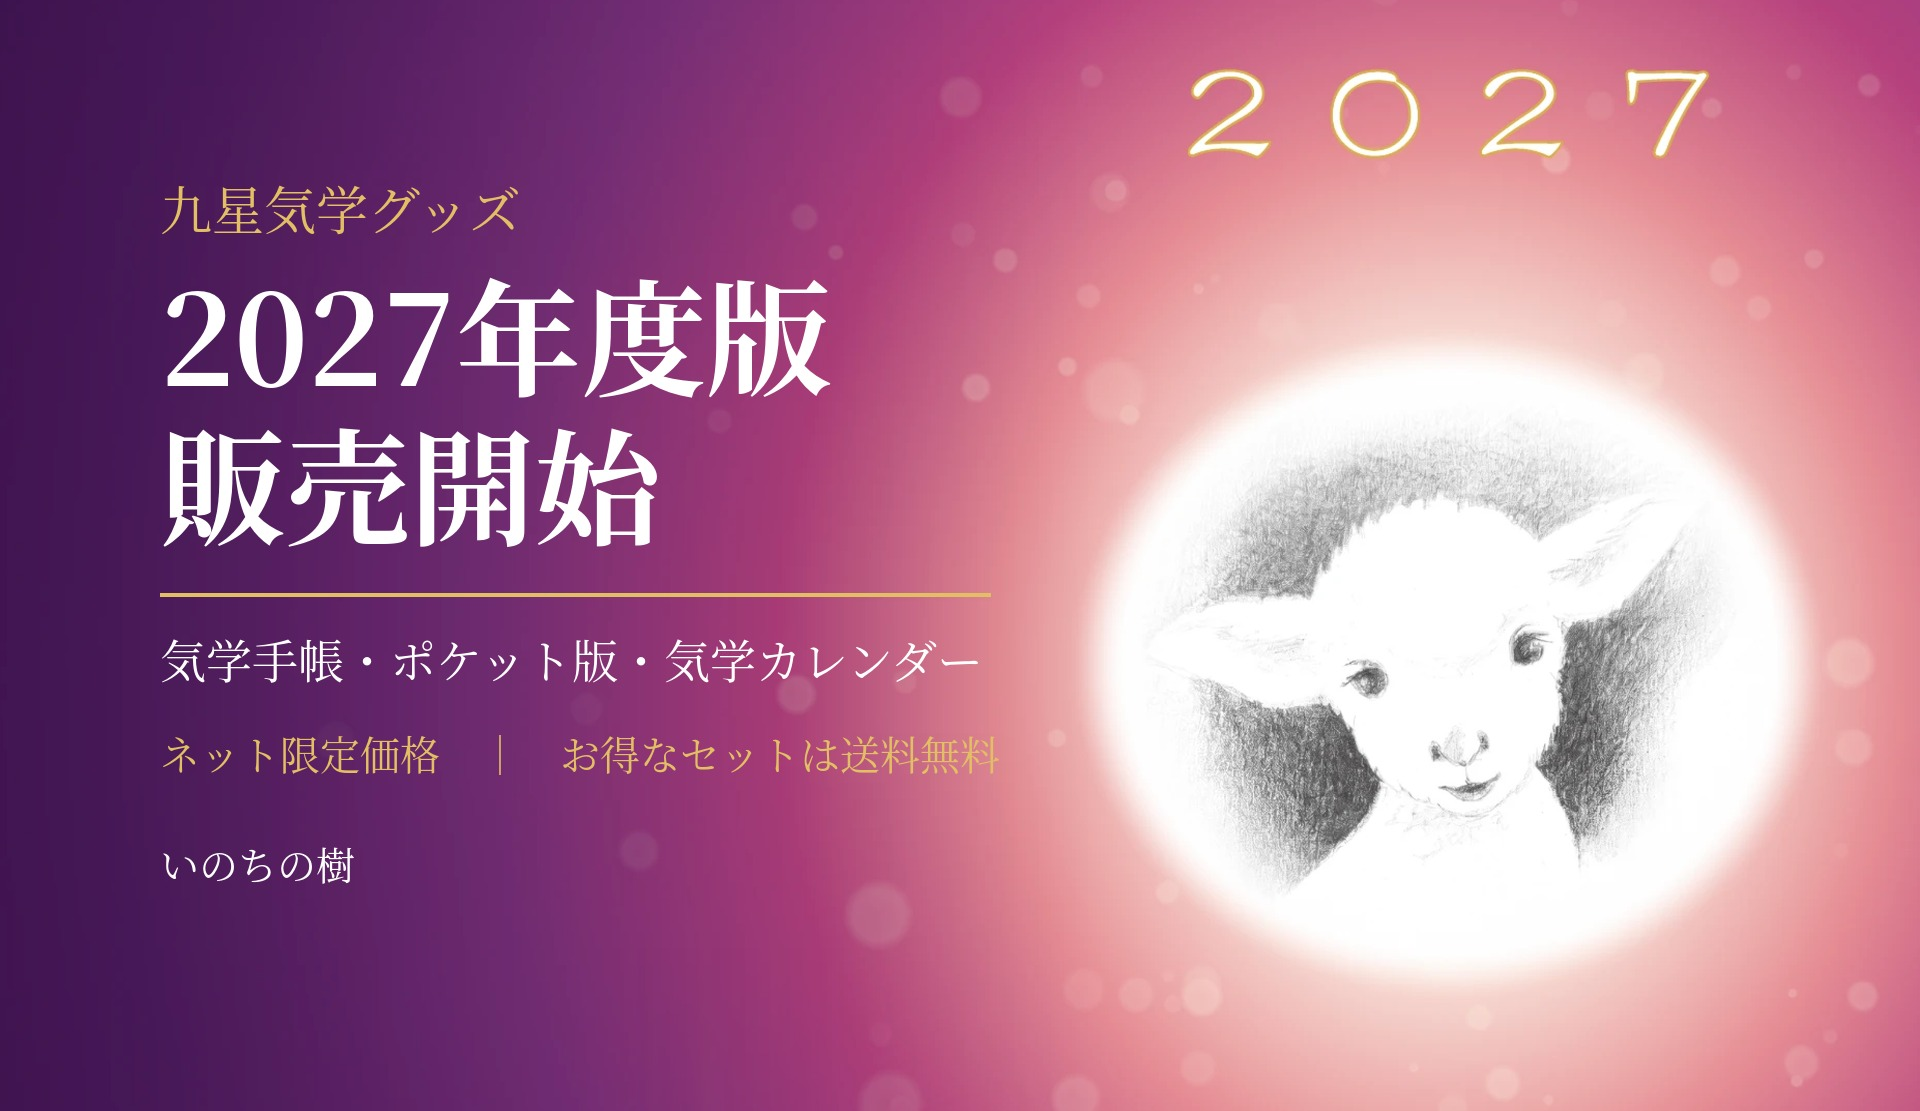
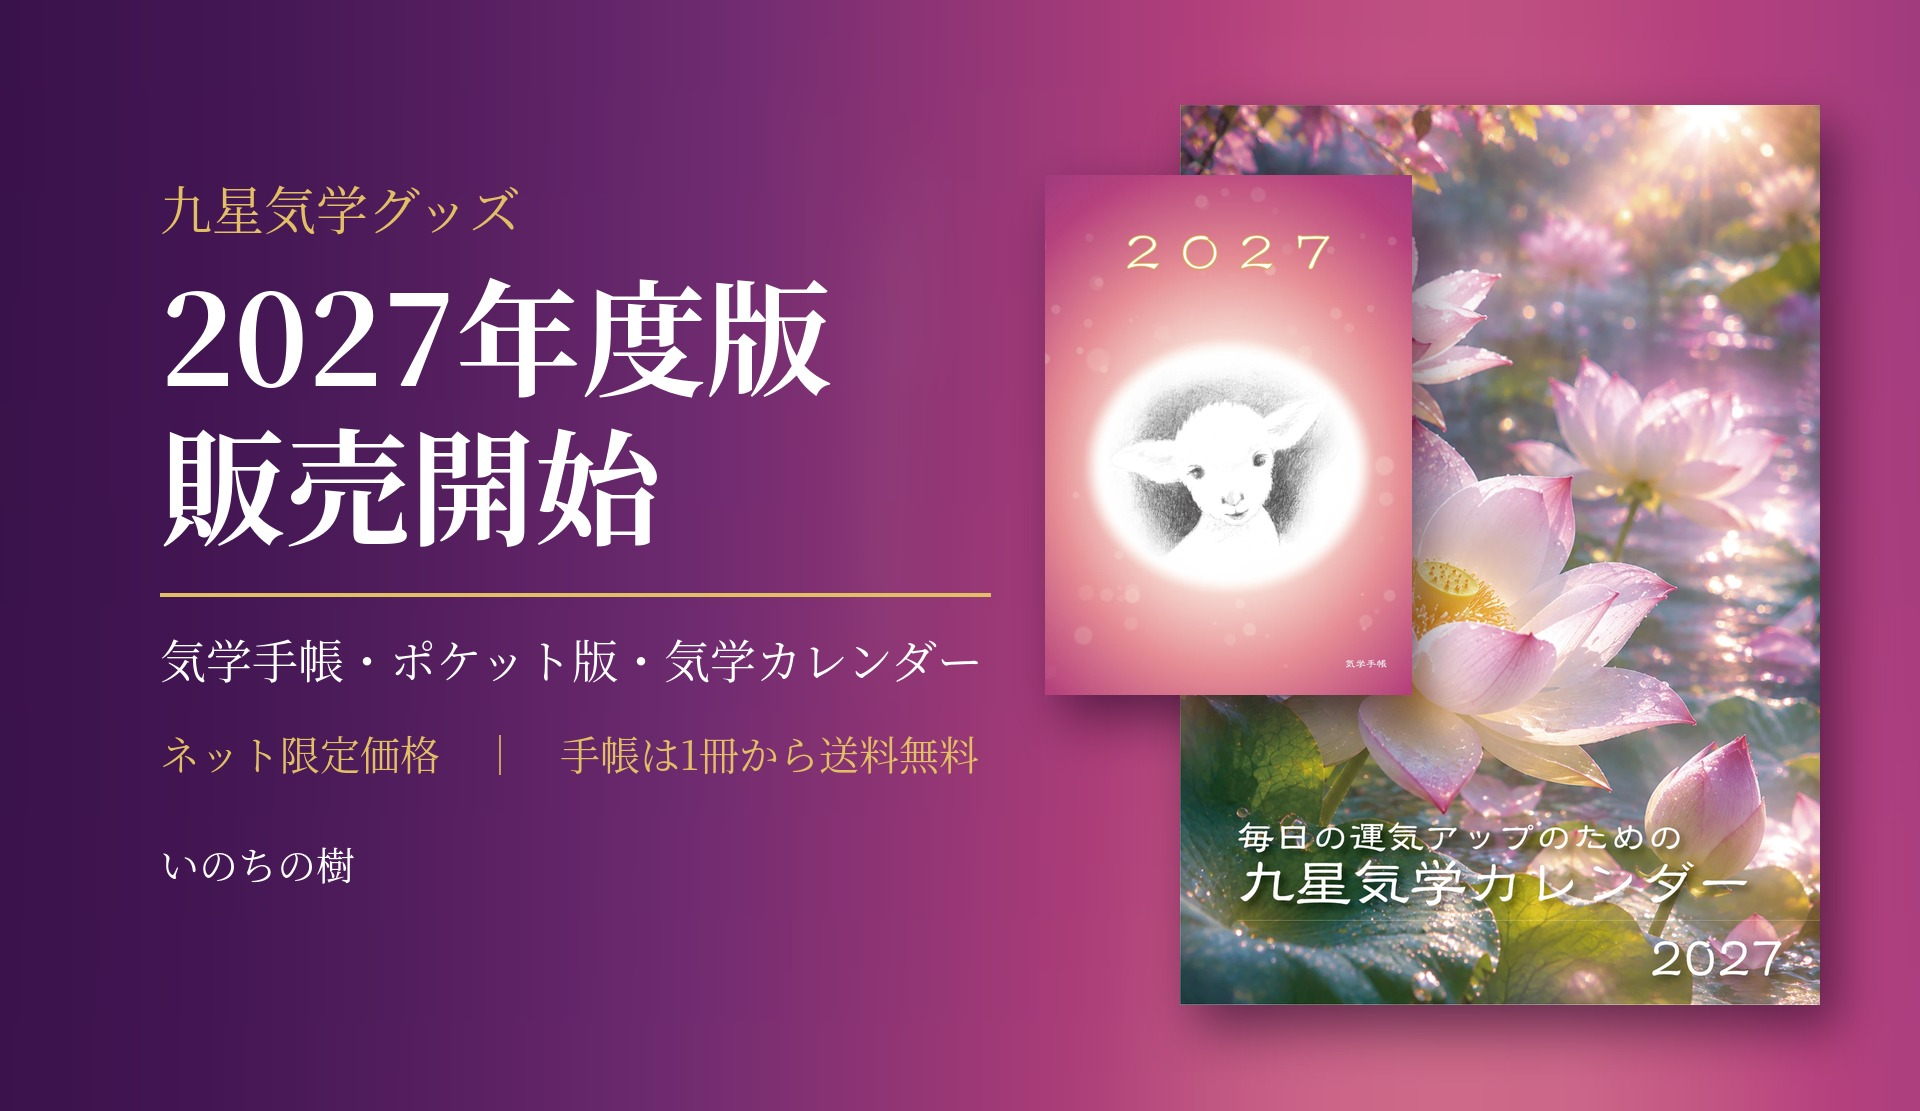
販売開始バナーにカレンダーを追加し、1・6・9月のサンプル画像を追加
- 03_バナー: 手帳とカレンダーの表紙を並べた形に変更、送料無料の文を手帳1冊からに
- 23〜25_サンプル_カレンダー1月・6月・9月
- カレンダーの説明文にサンプルの案内を追加

Claude-Session: https://claude.ai/code/session_01Fz1fyDT1g7nTrts6dth3MT

diff --git a/2027年度版/scripts/01_表紙とバナー.py b/2027年度版/scripts/01_表紙とバナー.py
@@ -21,29 +21,29 @@ front = full.crop((fa[0], fa[1], fb[0], fb[1]))
 fc = front.copy()
 fc.save(f'{OUT}/01_表紙_気学手帳2027.jpg', quality=92)
 
-# ---- 3. banner (BASE main image ratio 3691:2135) ----
+# ---- 3. banner (BASE main image ratio 3691:2135): notebook + lotus calendar ----
 BW = 1920; BH = round(BW * 2135 / 3691)   # 1920 x 1111
-# hide the barcode: blend each column between the rows just above and below it
-bx0, by0 = px(326, 178); bx1, by1 = px(416, 90)
-import numpy as np
-arr = np.asarray(full).astype(np.float32).copy()
-top = arr[by0 - 3:by0].mean(axis=0); bot = arr[by1:by1 + 3].mean(axis=0)
-n = by1 - by0
-for i in range(n):
-    t = i / max(1, n - 1)
-    arr[by0 + i, bx0:bx1] = top[bx0:bx1] * (1 - t) + bot[bx0:bx1] * t
-full = Image.fromarray(arr.clip(0, 255).astype('uint8'))
-# crop: full trim width, height to the banner ratio; top edge just above the
-# cover's "2027" (top ~583pt) so it is fully included and the small 気学手帳 (~84pt) is left out
-x0 = 42.52; x1 = 897.11; hpt = (x1 - x0) * BH / BW
-ya = 600; yb = ya - hpt
-a = px(x0, ya); b = px(x1, yb)
-ban = full.crop((a[0], a[1], b[0], b[1])).resize((BW, BH), Image.LANCZOS)
-# darken left side slightly for legibility
+# background: the purple -> pink gradient from a thin strip along the top of the cover spread
+a = px(42.52, 635.0); b = px(897.11, 595.0)
+ban = full.crop((a[0], a[1], b[0], b[1])).resize((BW, BH), Image.LANCZOS).filter(ImageFilter.GaussianBlur(24))
 ov = Image.new('L', (BW, BH), 0); od = ImageDraw.Draw(ov)
-for x in range(1100):
-    od.line((x, 0, x, BH), fill=int(90 * (1 - x / 1100)))
+for x in range(BW):
+    od.line((x, 0, x, BH), fill=int(110 * max(0, 1 - x / 1300)))
 ban.paste(Image.new('RGB', (BW, BH), (40, 10, 50)), (0, 0), ov)
+
+# products on the right: the calendar behind, the notebook in front of its upper-left part
+# (kept above the calendar's title at the bottom)
+cal = Image.open(os.path.join(ROOT, '元データ', 'カレンダー', '表紙.png')).convert('RGB')
+def put(img, x, y, h):
+    w = round(img.width * h / img.height)
+    sh = Image.new('L', (BW, BH), 0)
+    ImageDraw.Draw(sh).rectangle((x + 16, y + 22, x + w + 16, y + h + 22), fill=150)
+    ban.paste(Image.new('RGB', (BW, BH), (30, 5, 35)), (0, 0), sh.filter(ImageFilter.GaussianBlur(24)))
+    ban.paste(img.resize((w, h), Image.LANCZOS), (x, y))
+CY = (BH - 900) // 2
+put(cal, 1180, CY, 900)
+put(front, 1045, CY + 70, 520)
+
 d = ImageDraw.Draw(ban)
 L = 160; T = BH // 2 - 325   # text block (650px tall) centred vertically
 d.text((L, T), '九星気学グッズ', font=font(SR, 52), fill=GOLD, anchor='ls')
@@ -51,7 +51,7 @@ d.text((L, T + 156), '2027年度版', font=font(SB, 125), fill=WHITE, anchor='ls
 d.text((L, T + 305), '販売開始', font=font(SB, 125), fill=WHITE, anchor='ls')
 d.line((L, T + 364, L + 830, T + 364), fill=GOLD, width=4)
 d.text((L, T + 448), '気学手帳・ポケット版・気学カレンダー', font=font(SR, 46), fill=WHITE, anchor='ls')
-d.text((L, T + 540), 'ネット限定価格　｜　お得なセットは送料無料', font=font(SR, 40), fill=GOLD, anchor='ls')
+d.text((L, T + 540), 'ネット限定価格　｜　手帳は1冊から送料無料', font=font(SR, 40), fill=GOLD, anchor='ls')
 d.text((L, T + 650), 'いのちの樹', font=font(SR, 39), fill=WHITE, anchor='ls')
 ban.save(f'{OUT}/03_バナー_2027販売開始.jpg', quality=92)
 print('ok')

diff --git a/2027年度版/scripts/07_カレンダー.py b/2027年度版/scripts/07_カレンダー.py
@@ -1,4 +1,4 @@
-"""気学カレンダーと、カレンダー入りのセットの正方形画像（18〜22）を作る。
+"""気学カレンダーと、カレンダー入りのセットの正方形画像（18〜22）と、1・6・9月のサンプル（23〜25）を作る。
 文字の位置・大きさは 03_正方形.py と同じ。01_表紙とバナー.py を先に実行しておくこと。"""
 import os
 from PIL import Image, ImageDraw, ImageFont, ImageFilter
@@ -74,3 +74,13 @@ d.text((x0 + wb + gap + wp // 2, yb + 45), 'ポケット版', font=LABEL_F, fill
 d.text((x0 + wb + gap + wp + gap + wc // 2, yb + 45), 'カレンダー（A3）', font=LABEL_F, fill=PURPLE, anchor='mm')
 save(bg, '22_正方形_フルセット2027.jpg')
 print('ok')
+
+# 23-25: sample pages (January / June / September)
+for i, (mon, sub) in enumerate([('1月', '朝日に輝く蓮の写真です'),
+                                ('6月', '雨にぬれる白い蓮の写真です'),
+                                ('9月', '満月の夜に咲く蓮の写真です')]):
+    m = months[i]
+    bg = canvas(); items(bg, [(m, (S - wof(m, H)) // 2, TOP, H)])
+    d = text(bg, f'カレンダーのサンプル（{mon}）', sub)
+    save(bg, f'{23 + i}_サンプル_カレンダー{mon}.jpg')
+print('samples ok')

diff --git a/2027年度版/商品ページ下書き.md b/2027年度版/商品ページ下書き.md
@@ -172,6 +172,10 @@ A6サイズにまとめました。
 壁に掛けておくだけで、その日の日盤が一目でわかります。
 「今日はどの方位に日盤吉方をとろうかな？」というときにすぐ確認できます。
 
+【サンプル】
+商品画像に、1月・6月・9月のページをサンプルとして載せています。
+月ごとに表情の変わる蓮の写真を、ぜひご覧ください。
+
 ＜価格＞
 定価3,000円のところ、ネット価格 **2,800円**
 
